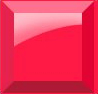
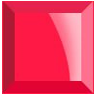
Modificacion de imagenes y siguiente tetrimino

diff --git a/src/logica/Logica.java b/src/logica/Logica.java
@@ -10,7 +10,9 @@ public class Logica {
 	protected Reloj miReloj;
 	protected Grilla miGrillaPrincipal;
 	protected Tetrimino tetriActual;
-	//protected Tetrimino tetriSiguiente;
+	protected Tetrimino tetriSiguiente;
+	protected int sigT;
+	protected String urlSiguiente;
 	protected int puntaje;
 	public static final int moverIzquierda = 1;
 	public static final int moverDerecha = 2;
@@ -20,8 +22,12 @@ public class Logica {
 	public Logica(GUI mg) {
 		miGrillaPrincipal = new Grilla(this, 21, 10);
 		Random rn = new Random();
-		tetriActual=generarTetris(rn.nextInt(7));
-		miGui=mg;
+		tetriActual = generarTetris(rn.nextInt(7));
+		
+		sigT = rn.nextInt(7);
+		tetriSiguiente = generarTetris(sigT);
+		urlSiguiente = mostrarTetriminoSiguiente(sigT);
+		miGui = mg;
 	}
 
 	private Tetrimino generarTetris(int i) {
@@ -59,6 +65,42 @@ public class Logica {
 		return t;
 	}
 
+	public String mostrarTetriminoSiguiente(int sigT) {
+		String t = null;
+		switch (sigT) {
+		case 0: {
+			t = "/images/Cuadrado_Tetrimino.png";
+			break;
+		}
+		case 1: {
+			t = "/images/I_Tetrimino.png";
+			break;
+		}
+		case 2: {
+			t = "/images/L_Tetrimino.png";
+			break;
+		}
+		case 3: {
+			t = "/images/LInvertido_Tetrimino.png";
+			break;
+		}
+		case 4: {
+			t = "/images/TInvertida_Tetrimino.png";;
+			break;
+		}
+		case 5: {
+			t = "/images/Z_Tetrimino.png";
+			break;
+		}
+		case 6: {
+			t = "/images/ZInvertida_Tetrimino.png";
+			break;
+		}
+		}
+		return t;
+	}
+	
+	
 	public void iniciarJuego() {
 		miReloj = new Reloj(this, 1000);
 		puntaje = 0;
@@ -176,5 +218,9 @@ public class Logica {
 	
 	public Tetrimino getTetriActual() {
 		return tetriActual; 
+	}
+	
+	public String getUrlSiguiente() {
+		return urlSiguiente;
 	}
 }

diff --git a/src/gui/GUI.java b/src/gui/GUI.java
@@ -60,6 +60,11 @@ public class GUI extends JFrame{
 		panelJuego.setVisible(true);
 		panelJuego.setLayout(null);
 		
+		JLabel sigTetrimino_label = new JLabel("");
+		sigTetrimino_label.setBounds(20, 61, 145, 145);
+		ponerImagen(sigTetrimino_label, mijuego.getUrlSiguiente());
+		panelJuego.add(sigTetrimino_label);
+		
 		
 		JLabel puntaje_Label = new JLabel("");
 		puntaje_Label.setForeground(Color.WHITE);
@@ -135,10 +140,10 @@ public class GUI extends JFrame{
 	    int filaposc=posc.getFila();
 	    int colposc=posc.getColumna(); 
 	    
-	    ponerImagen(matrizPrincipal[filapos1][colpos1],"/images/Cuadrado_Tetrimino_0.png");
-	    ponerImagen(matrizPrincipal[filapos2][colpos2],"/images/Cuadrado_Tetrimino_0.png");
-	    ponerImagen(matrizPrincipal[filapos3][colpos3],"/images/Cuadrado_Tetrimino_0.png");
-	    ponerImagen(matrizPrincipal[filaposc][colposc],"/images/Cuadrado_Tetrimino_0.png");
+	    ponerImagen(matrizPrincipal[filapos1][colpos1], mijuego.getTetriActual().getTetriminoGrafico().getPos1().obtenerRutaImagen());
+	    ponerImagen(matrizPrincipal[filapos2][colpos2], mijuego.getTetriActual().getTetriminoGrafico().getPos2().obtenerRutaImagen());
+	    ponerImagen(matrizPrincipal[filapos3][colpos3], mijuego.getTetriActual().getTetriminoGrafico().getPos3().obtenerRutaImagen());
+	    ponerImagen(matrizPrincipal[filaposc][colposc], mijuego.getTetriActual().getTetriminoGrafico().getPosCentral().obtenerRutaImagen());
 		
 	}
 	

diff --git a/src/tetrimino/I.java b/src/tetrimino/I.java
@@ -8,11 +8,12 @@ import logica.Grilla;
 public class I extends Tetrimino {
 	public I(Grilla mg) {
 		super();
+		miGrilla=mg;
 		pos1=mg.getBloque(0,3);
 		pos2=mg.getBloque(0,5);
 		pos3=mg.getBloque(0,6);
 	    poscentral=mg.getBloque(0,4);
-	    miGrilla=mg;
+	    
 	    String rutaI_0="/images/I_Tetrimino_0.png";
 	    String rutaI_90="/images/I_Tetrimino_90.png";
 	    String rutaI_180= "/images/I_Tetrimino_180.png";

diff --git a/src/tetrimino/Z.java b/src/tetrimino/Z.java
@@ -9,11 +9,12 @@ public class Z extends Tetrimino{
 	
 	public Z(Grilla mg) {
 		super();
+		miGrilla=mg;
 		pos1=mg.getBloque(0,3);
 	    pos2=mg.getBloque(0,4);
 	    pos3=mg.getBloque(1,5);
 	    poscentral=mg.getBloque(1,4);
-	    miGrilla=mg;
+	  
 	    String rutaZ_0="/images/Z_Tetrimino_0.png";
 	    String rutaZ_90="/images/Z_Tetrimino_90.png";
 	    String rutaZ_180="/images/Z_Tetrimino_180.png";
